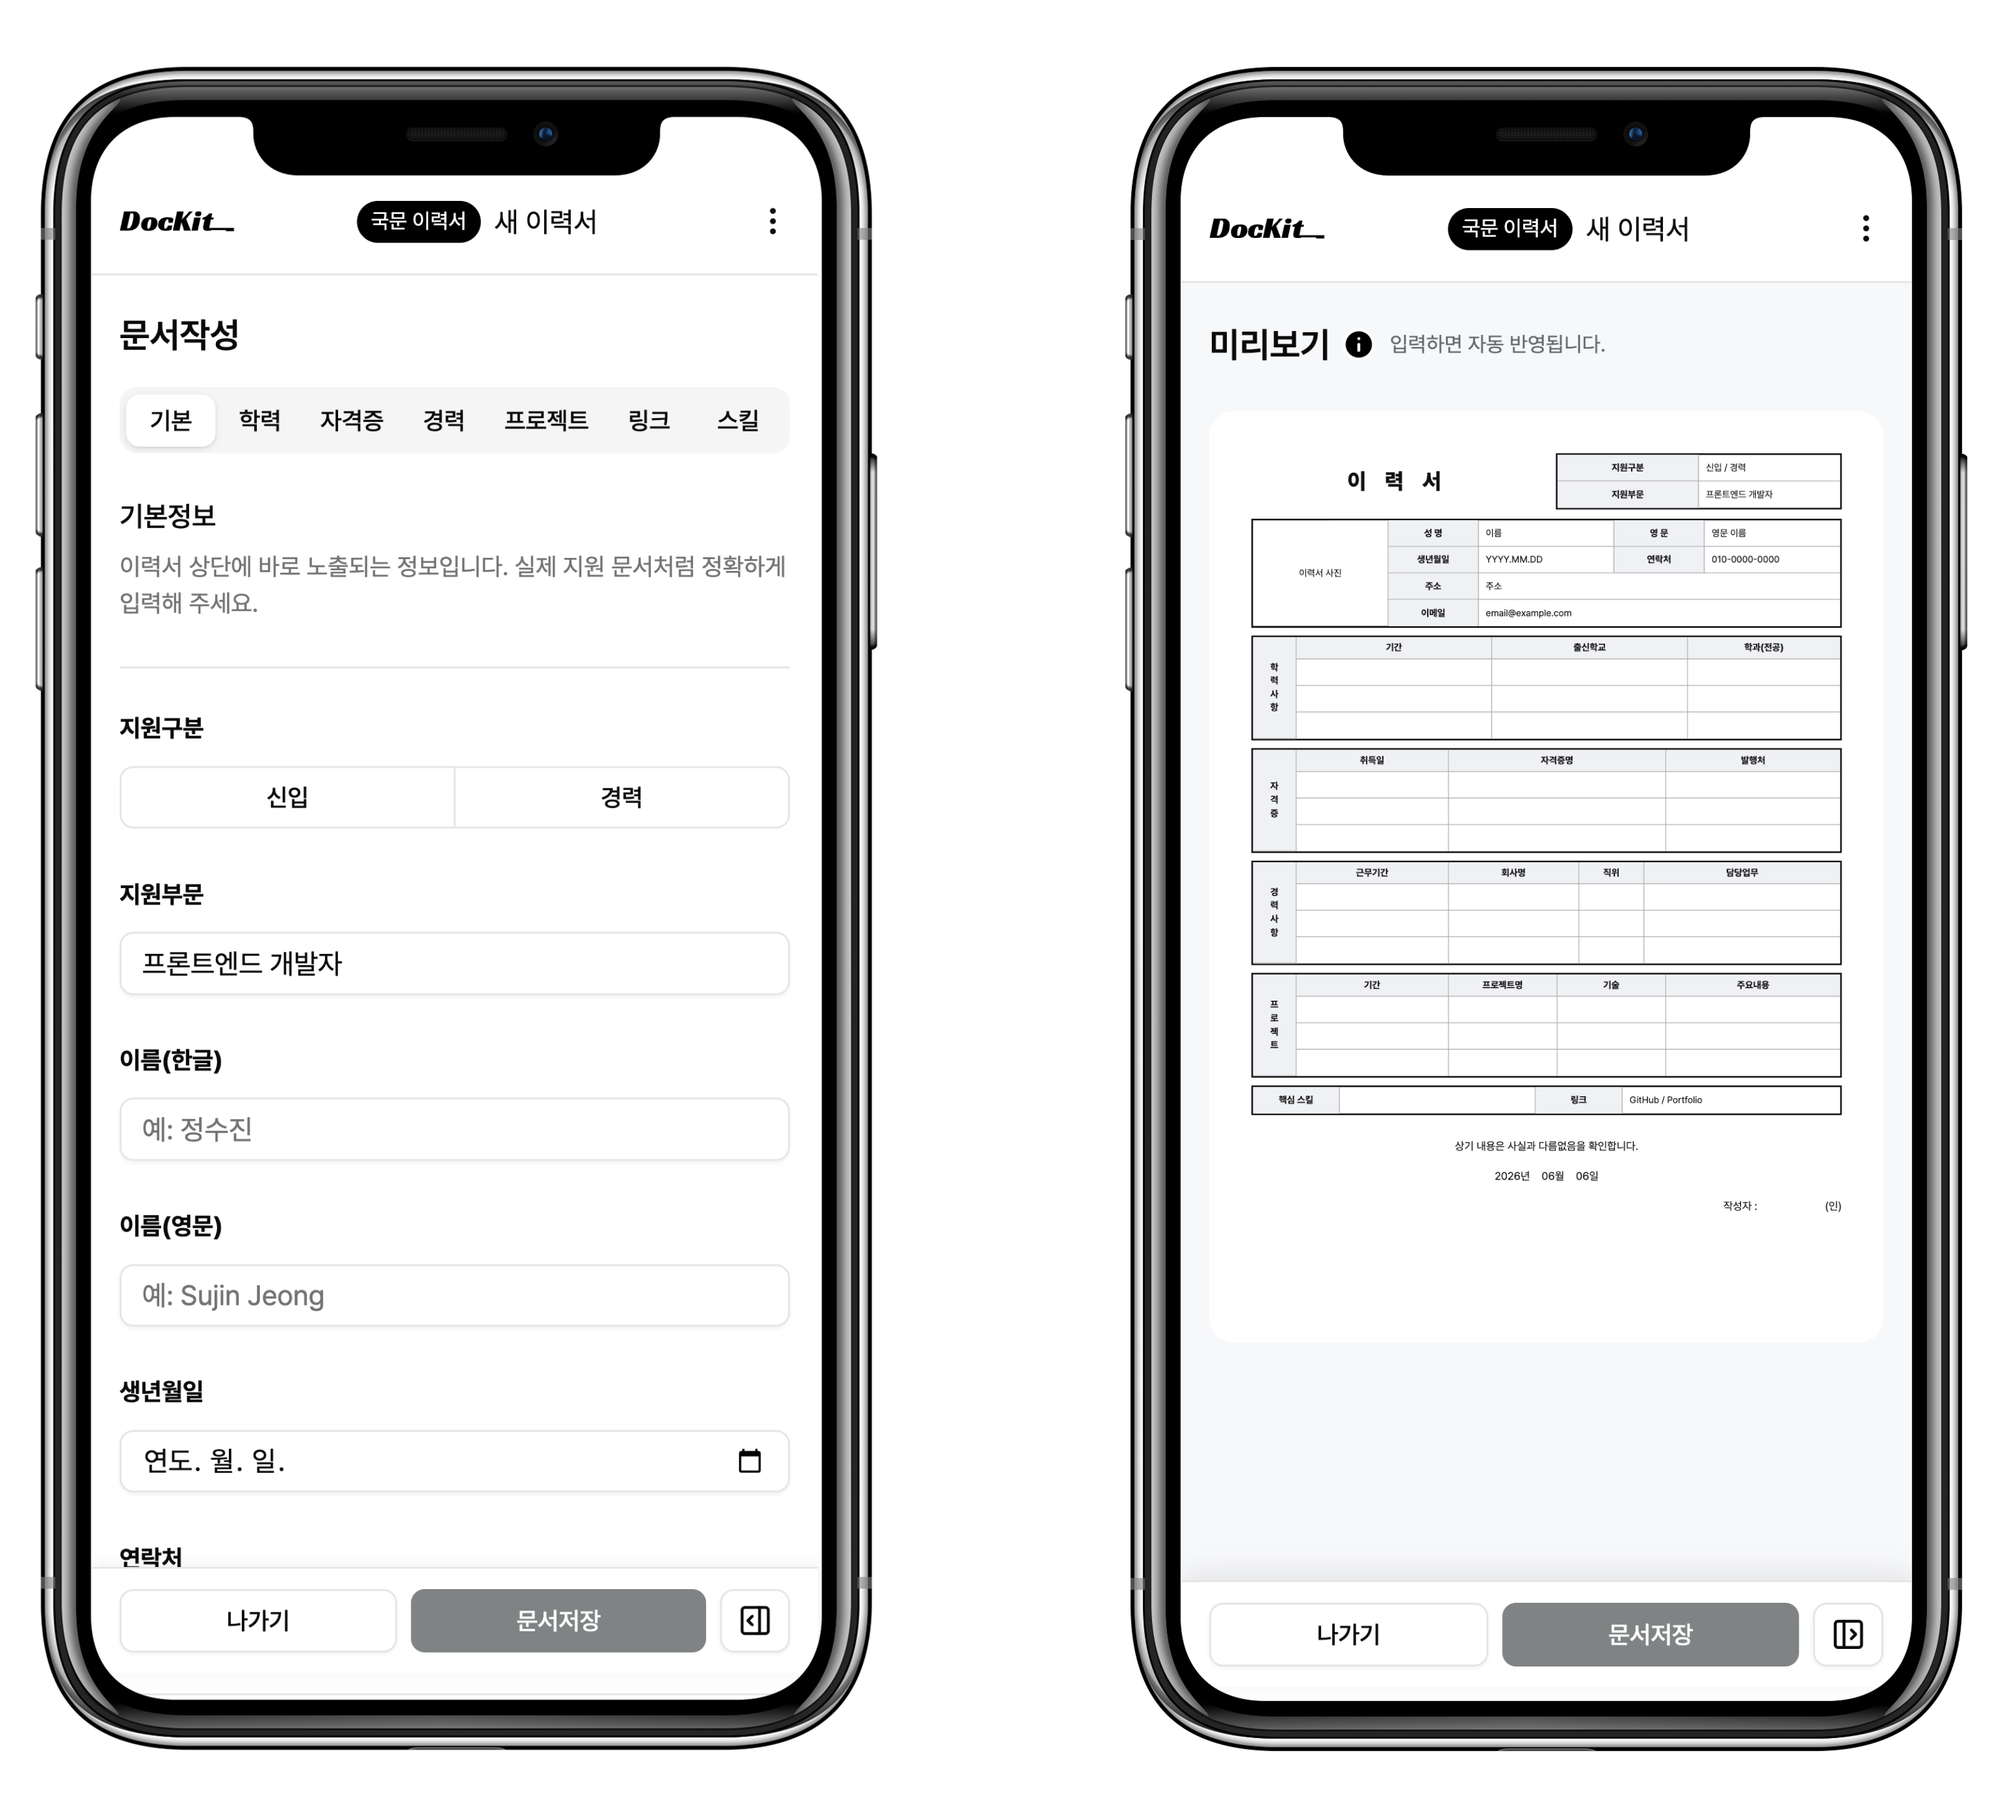
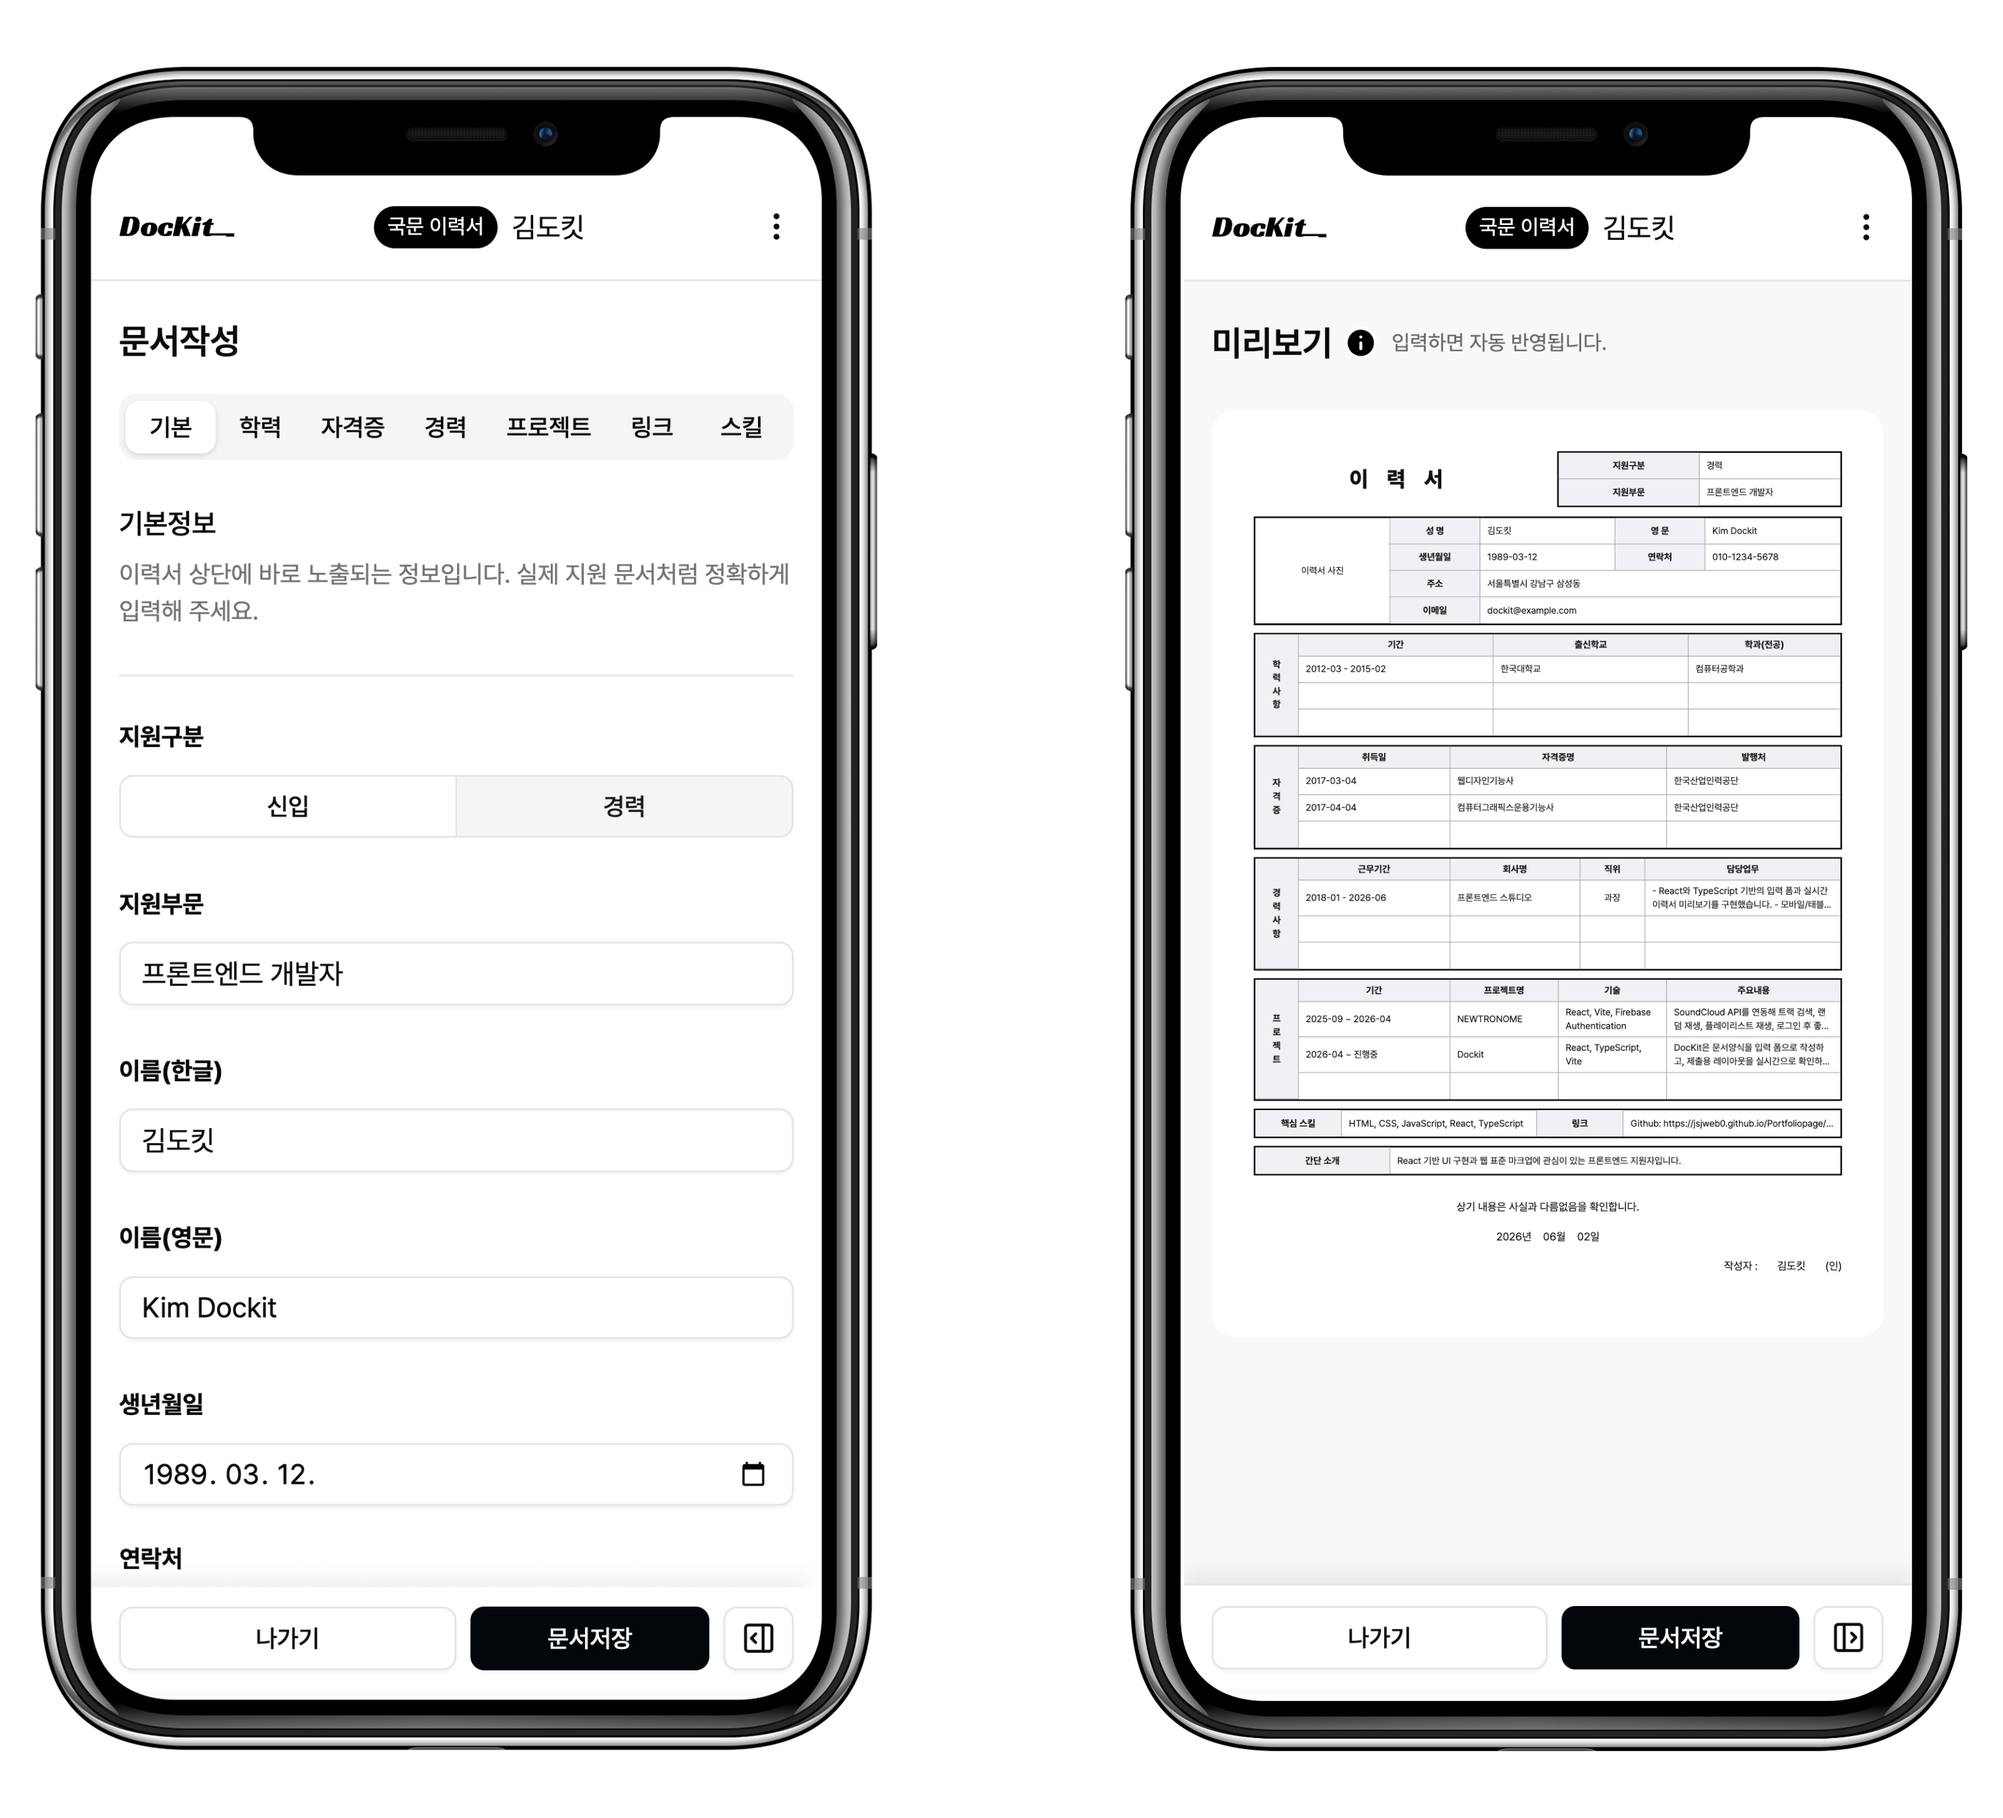
Docs: dockit 이미지 업데이트

diff --git a/dist/index.html b/dist/index.html
@@ -6,7 +6,7 @@
       <meta name="viewport" content="width=device-width, initial-scale=1.0, viewport-fit=cover" />
       <title>sujin Portfolio</title>
       <style>html, body { height: 100%; margin: 0; } #root { height: 100%; }</style>
-      <script type="module" crossorigin src="/Portfoliopage/assets/index-B1b0EBWO.js"></script>
+      <script type="module" crossorigin src="/Portfoliopage/assets/index-CeJm75zf.js"></script>
       <link rel="stylesheet" crossorigin href="/Portfoliopage/assets/index-CQbf7MN4.css">
     </head>
 

diff --git a/src/features/projects/data/projects.ts b/src/features/projects/data/projects.ts
@@ -331,7 +331,7 @@ export const projects: Project[] = [
       {
         src: 'images/projects/dockit_pc_1.jpg',
         alt: 'Dockit 이력서 작성 도구 PC 화면',
-        caption: '입력 폼과 A4 미리보기를 나란히 배치한 데스크톱 화면',
+        caption: '최근 작성중 목록과 문서 양식 목록 메인 데스크톱 화면',
       },
       {
         src: 'images/projects/dockit_pc_2.jpg',
